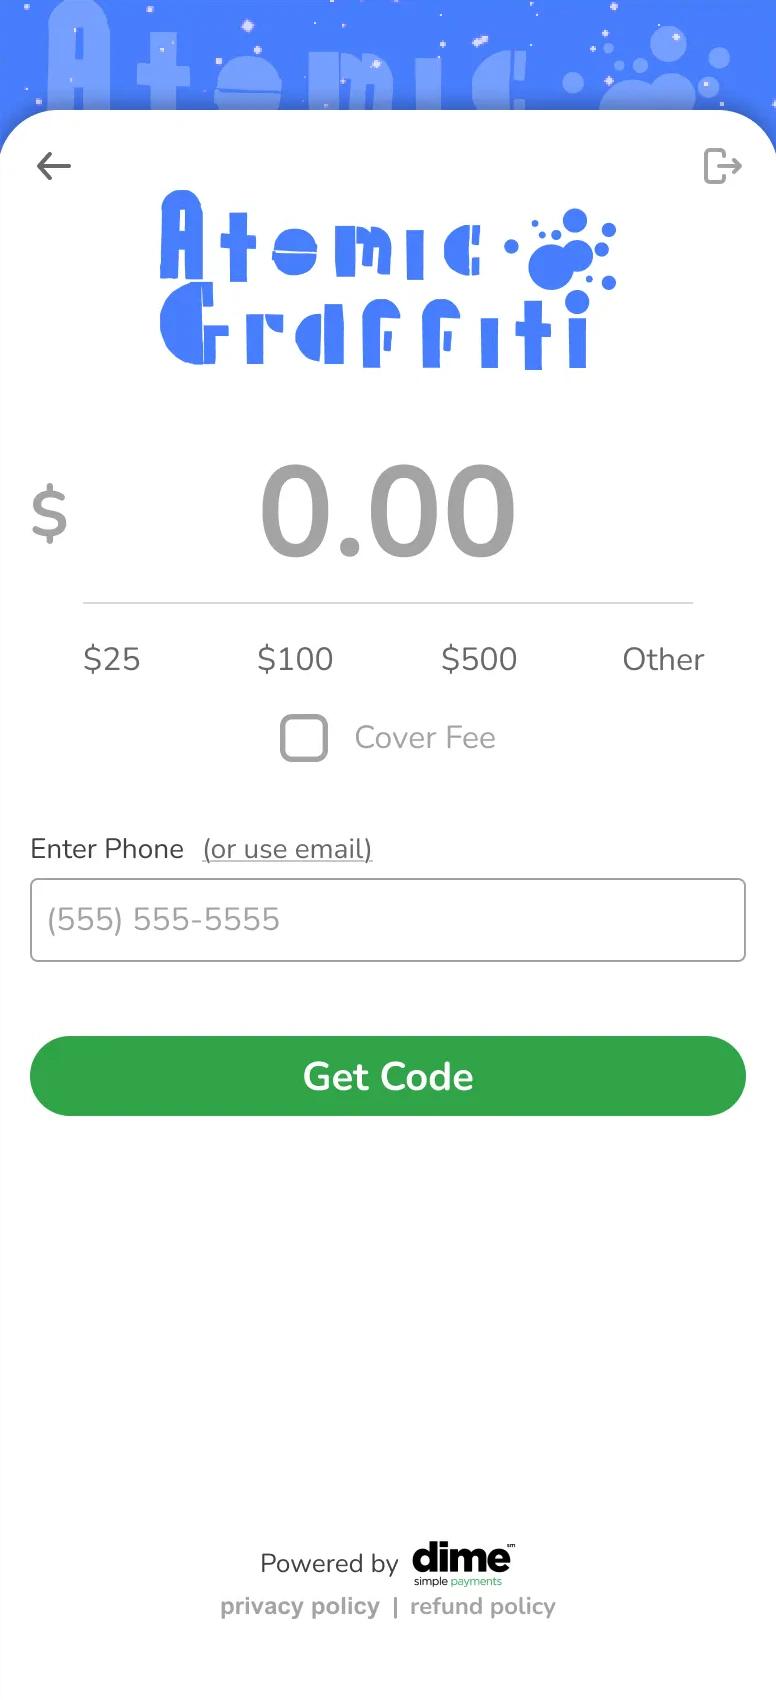
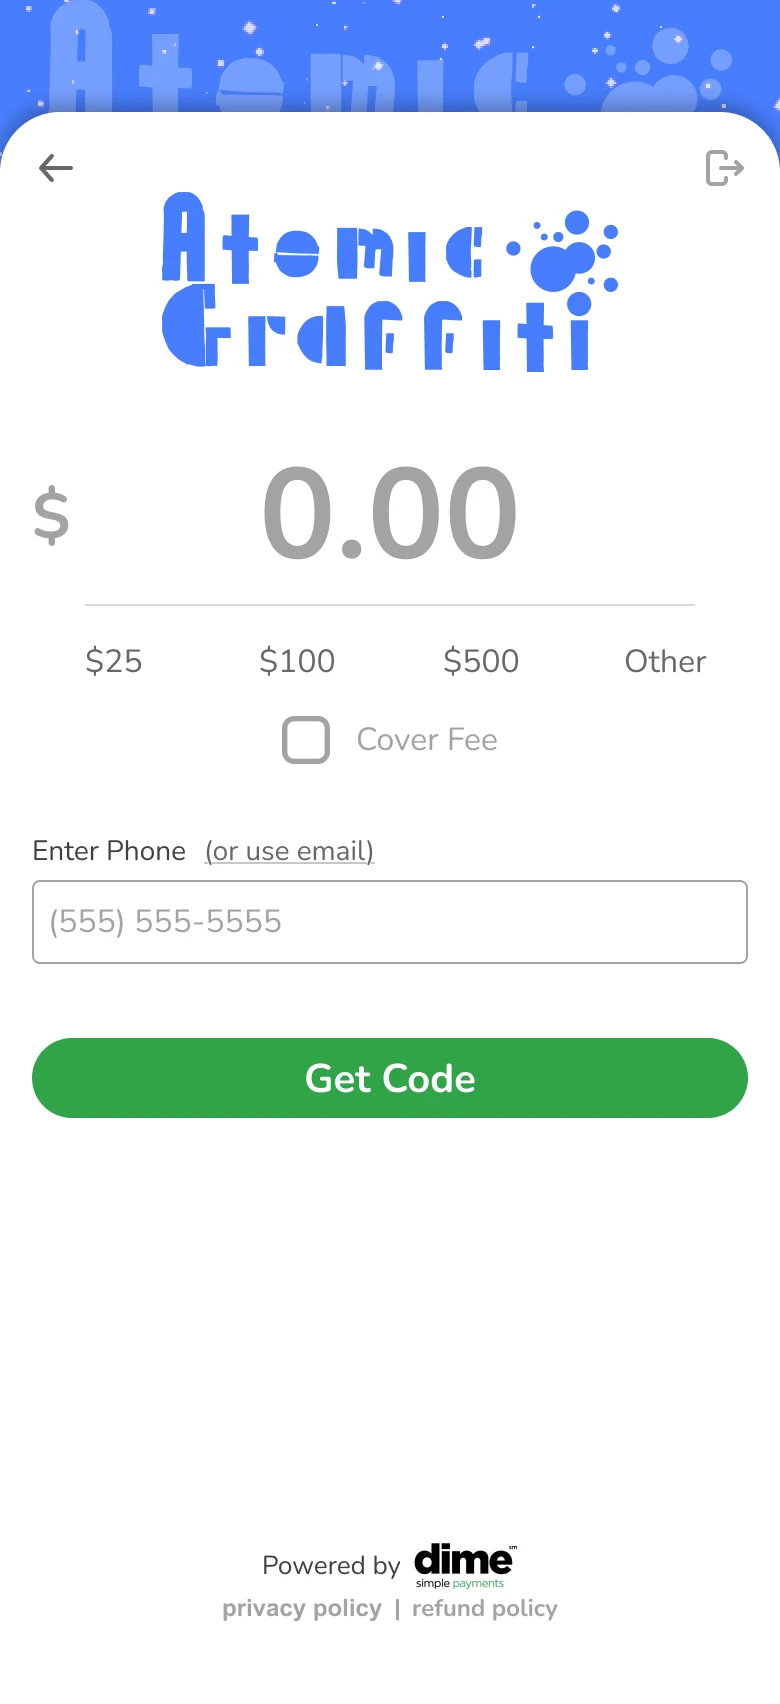
dime go-live

diff --git a/src/components/CaseStudy/CaseStudy.module.css b/src/components/CaseStudy/CaseStudy.module.css
@@ -79,8 +79,10 @@
 }
 
 /* ─── Phone mockup (media behind a transparent-screen iPhone frame) ─── */
-/* Kept centered (not in the alternating print layout) to maximize visibility.
-   Optional caption above explains why the demo is here. */
+/* The MOCKUP is centered (not in the alternating print layout) to maximize
+   visibility, but the heading and copy stay left-aligned like every other block
+   on the page — .phone centers itself via its own auto margins, so the column
+   does not need to center its children to achieve that. */
 .phoneBlock {
     margin: 0 auto var(--stack);
     /* See .laptopBlock: in .body's flex column, `margin: 0 auto` outranks
@@ -89,13 +91,13 @@
     width: 100%;
     display: flex;
     flex-direction: column;
-    align-items: center;
-    text-align: center;
+    align-items: stretch;
+    text-align: left;
 }
 
 .phoneCaption {
     max-width: 48ch;
-    margin: 0 auto var(--space-md);
+    margin: 0 0 var(--space-md);
 }
 
 .phoneCaption p {
@@ -146,8 +148,9 @@
 }
 
 /* ─── Laptop mockup (looping mp4 inside a MacBook Pro frame) ─── */
-/* Centered like the phone. The video sits OVER the PNG, clipped to the screen
-   cutout, so it works whether the mockup's screen is transparent or white. */
+/* Mockup centered like the phone, heading and copy left-aligned. The video sits
+   OVER the PNG, clipped to the screen cutout, so it works whether the mockup's
+   screen is transparent or white. */
 .laptopBlock {
     margin: 0 auto var(--stack);
     /* Without this the flex column shrink-wraps to its widest child (the heading
@@ -156,13 +159,13 @@
     width: 100%;
     display: flex;
     flex-direction: column;
-    align-items: center;
-    text-align: center;
+    align-items: stretch;
+    text-align: left;
 }
 
 .laptopCaption {
     max-width: 60ch;
-    margin: 0 auto var(--space-md);
+    margin: 0 0 var(--space-md);
 }
 
 .laptopCaption p {
@@ -1064,9 +1067,10 @@
    Scoped to phone galleries so print/mockup grids keep their own density. */
 .galleryGridPhone {
     grid-template-columns: repeat(3, 1fr);
-    /* Cards size to their own content. Default `stretch` made every card as tall
-       as the tallest in the row and stranded its caption at the bottom. */
-    align-items: start;
+    /* Cards stretch to a common height (grid's default) so the boxes match across
+       the row — copy length must not decide how tall a screen's container is.
+       Content stays top-aligned; the slack falls to the bottom of the card. */
+    align-items: stretch;
 }
 
 /* Pending items in a phone gallery preview at phone proportions, so the layout

diff --git a/src/content/case-studies/dime/index.md b/src/content/case-studies/dime/index.md
@@ -2,7 +2,7 @@
 # ─── Meta (shown in the hero + snapshot bar) ───────────────────────────
 title: "Dime Payments"
 slug: dime
-draft: true              # unfinished — hidden from the site + routes until content is ready
+draft: false             # LIVE
 order: 1
 disciplines:            # rendered as the hero subtitle + card tags
   - Product Design
@@ -52,7 +52,7 @@ blocks:
       radius: "16px"
 
   - type: image
-    heading: "Two layers, one source of truth"
+    heading: "Single Source of Truth"
     mediaTitle: true
     media: ./assets/figma-variables.webp
     alt: "The Figma Variables panel for the Dime system. Collections are split into Color and Color Primitives, and every semantic token's value is an alias to a primitive rather than a raw hex."
@@ -64,21 +64,21 @@ blocks:
       padding: "2rem"
       radius: "16px"
     body: >
-      The values live in Figma Variables, not on a canvas page, which is how a developer actually extracts them. Note the value column: every semantic token resolves to *another token*, never a hex. `Text / Brand / Primary` points at `Brand/200`. That indirection is the whole point. Retheme the primitive and every component downstream follows.
+      The Figma Variables panel for the Dime system. Every semantic token resolves to another token, never a hex. `Text / Brand / Primary` points at `Brand/200`. A primitive can be rethemed and every component downstream follows.
 
   - type: subsection
     number: "01b"
     heading: "Governing the system"
     body: >
-      **Primitives are deliberately not exposed to components.** A component can only reach the semantic layer, so a developer picks `border-focus-primary`, never `green-600`. That constraint is what keeps a design system a system: if any component can grab any raw value, the semantic layer becomes decoration and the first redesign breaks everything. It also means intent survives. `positive` and `brand` happen to share a green today, but they're separate tokens, so rebranding away from green won't quietly turn *success* into the new brand color.
-
-      The same discipline runs past color. Elevation isn't a pasted shadow, it's composed from depth and alpha tokens, so shadows stay consistent and adjust as a set. Icon stroke weight is tokenized alongside icon size, so a 12px icon and a 24px icon keep the same optical weight. Roughly 290 variables across eight collections, built to be consumed rather than admired.
+     If any component can grab any raw value, the semantic layer becomes decoration and the first redesign breaks everything.To prevent this, primitives are deliberately not exposed to components. 
+     
+     The same discipline is used in all elements. Elevation tokens, for example, are composed from depth and alpha tokens, so shadows stay consistent and adjusts as a set.
 
   - type: subsection
     number: "01c"
     heading: "Type as tokens"
     body: >
-      Type is tokenized the same way: each family is assigned to roles, and every size resolves through a shared numeric scale rather than one-off pixel values, so "Body / Medium" is a token, not a guess.
+      Type is tokenized the same way: each family is assigned to roles, and every size resolves through a shared numeric scale rather than one-off pixel values.
 
   - type: image
     heading: "Family roles"
@@ -166,7 +166,7 @@ blocks:
       padding: "2rem"
       radius: "16px"
     body: >
-      Each breakpoint is a *mode*, not a set of hand-tuned values. Padding resolves through the same `Space` scale everything else uses, so a component re-pads itself when the frame changes size instead of being adjusted five times. Root font size holds at `Scale 04` at every breakpoint including mobile, which keeps body copy readable and stops iOS zooming the page on input focus.
+      Each breakpoint is a modes and follows the Tailwind breakpoint standards. Padding resolves through the same `Space` scale everything else uses, so a component re-pads itself when the frame changes size. Root font size holds at `Scale 04` at every breakpoint including mobile, which keeps body copy readable.
 
   - type: image
     heading: "The shell, before anything fills it"
@@ -180,13 +180,13 @@ blocks:
       padding: "2rem"
       radius: "16px"
     body: >
-      Those tokens drive one skeleton across all five sizes. Navigation is a persistent sidebar from 1280 up and collapses to an overlay drawer below it, which is the only structural decision the shell makes. The content column scrolls while the sidebar stays fixed, and the header's system controls shift from center to right-aligned when the merchant select isn't present.
+     Navigation is a persistent sidebar from 1280 up and collapses to an overlay drawer below it, which is the only structural decision the shell makes. The content column scrolls while the sidebar stays fixed.
 
   - type: subsection
     number: "02a"
     heading: "One system, three roles"
     body: >
-      The same tables, navigation, and layout primitives reskin per role. What changes is the data and the privileges, not the parts. Customer and Merchant are shown here. *Admin* is an internal Dime staff role sitting above Merchant: elevated permissions on a near-identical interface, so it shipped without needing a design of its own. That's the clearest result the system produced. A third role cost nothing to serve.
+      The same tables, navigation, and layout primitives reskin per role. What changes is the data and the privileges, not the parts. Customer and Merchant are shown here. *Admin* is an internal Dime staff role sitting above Merchant: elevated permissions on a near-identical interface, so it shipped without needing a design of its own.
 
   - type: laptop
     heading: "Customer: dashboard"
@@ -229,7 +229,7 @@ blocks:
     number: "03"
     heading: "Payment Processing Page"
     problem: >
-      This is the page an organization sends people to in order to donate or pay. It is public, conversion-critical, and used by people with no Dime account. It had to feel trustworthy on first contact and let anyone complete a payment without signing up.
+      The Payments Page is a white-labeled page an organization sends their customers in order to donate or pay. It is public, conversion-critical, and used by people with no Dime account. It had to feel trustworthy on first contact and let anyone complete a payment without signing up.
 
   - type: subsection
     number: "03a"
@@ -264,16 +264,13 @@ blocks:
       - media: ./assets/ppp-mobile-flow02.webp   # DONE — mobile
         label: "Screen 2"
         body: "Everything needed to review before paying, on one screen: the fee the payer chose to cover, wallets first for speed, and a saved card that can be swapped inline. Nothing here navigates away."
-      - media: ./assets/ppp-mobile-flow03.webp   # incoming — confirmation
+      - media: ./assets/ppp-mobile-flow03.webp   # DONE — mobile
         label: "Screen 3"
-        body: "Confirmation — a clear close and a receipt."
+        body: "Confirmation arrives as an overlay on the screen just paid. Holding the context behind it means there is never a question about which payment succeeded."
 
-  - type: image
-    heading: "Desktop"
-    media: ./assets/pay-desktop.webp        # TODO — remake, desktop (responsive range)
-    alt: "Dime payment processing page on desktop"
-    radius: true
-    border: true
+  # No desktop payment-page mockup by design: the client never asked for one —
+  # mobile was the priority and desktop was to be served by the same responsive
+  # view. Optional future addition, not a gap.
 
   # ══════════════ 05 — IMPACT ══════════════
   - type: impact
@@ -286,5 +283,5 @@ blocks:
      Skeleton status — screens still to remake (then I frame them):
        • 01 Design System: Button variant matrix (taxonomy + type tables done, SVG)
        • 02 Shell: Customer dashboard, Merchant transactions, mobile shell (Admin optional)
-       • 03 Payment: user-flow chart (done) + 4 mobile money-moments + 1 desktop
+       • 03 Payment: user-flow chart (done) + 3 mobile money-moments
      Real token values / node IDs live in _dev/figma-map.md. -->
